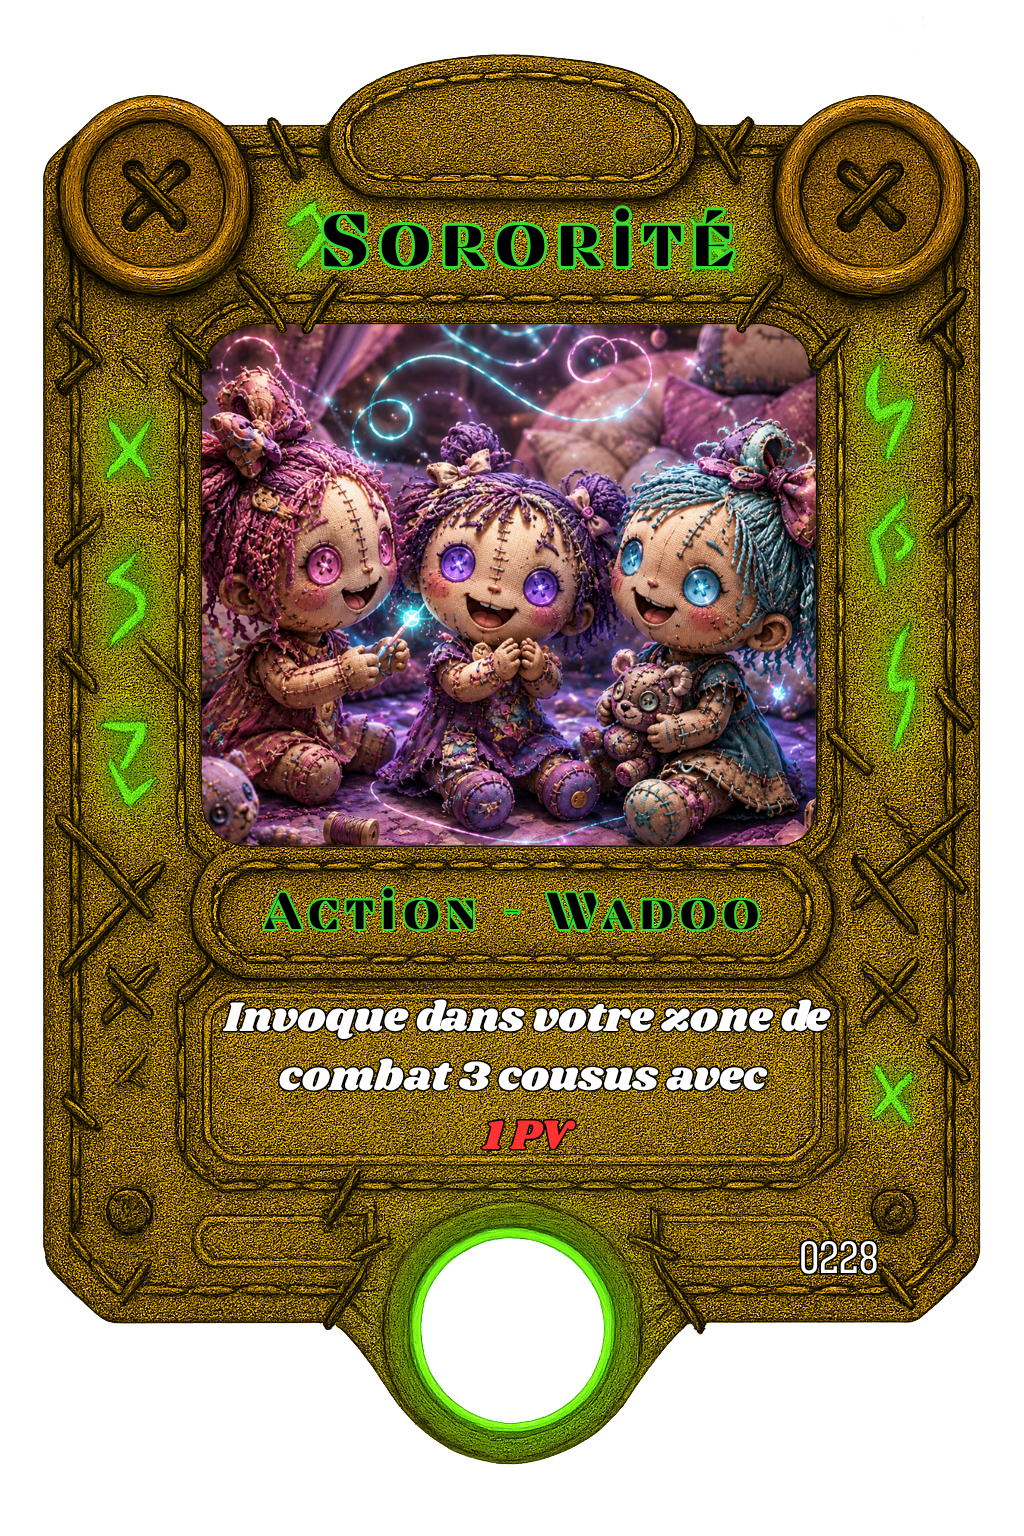
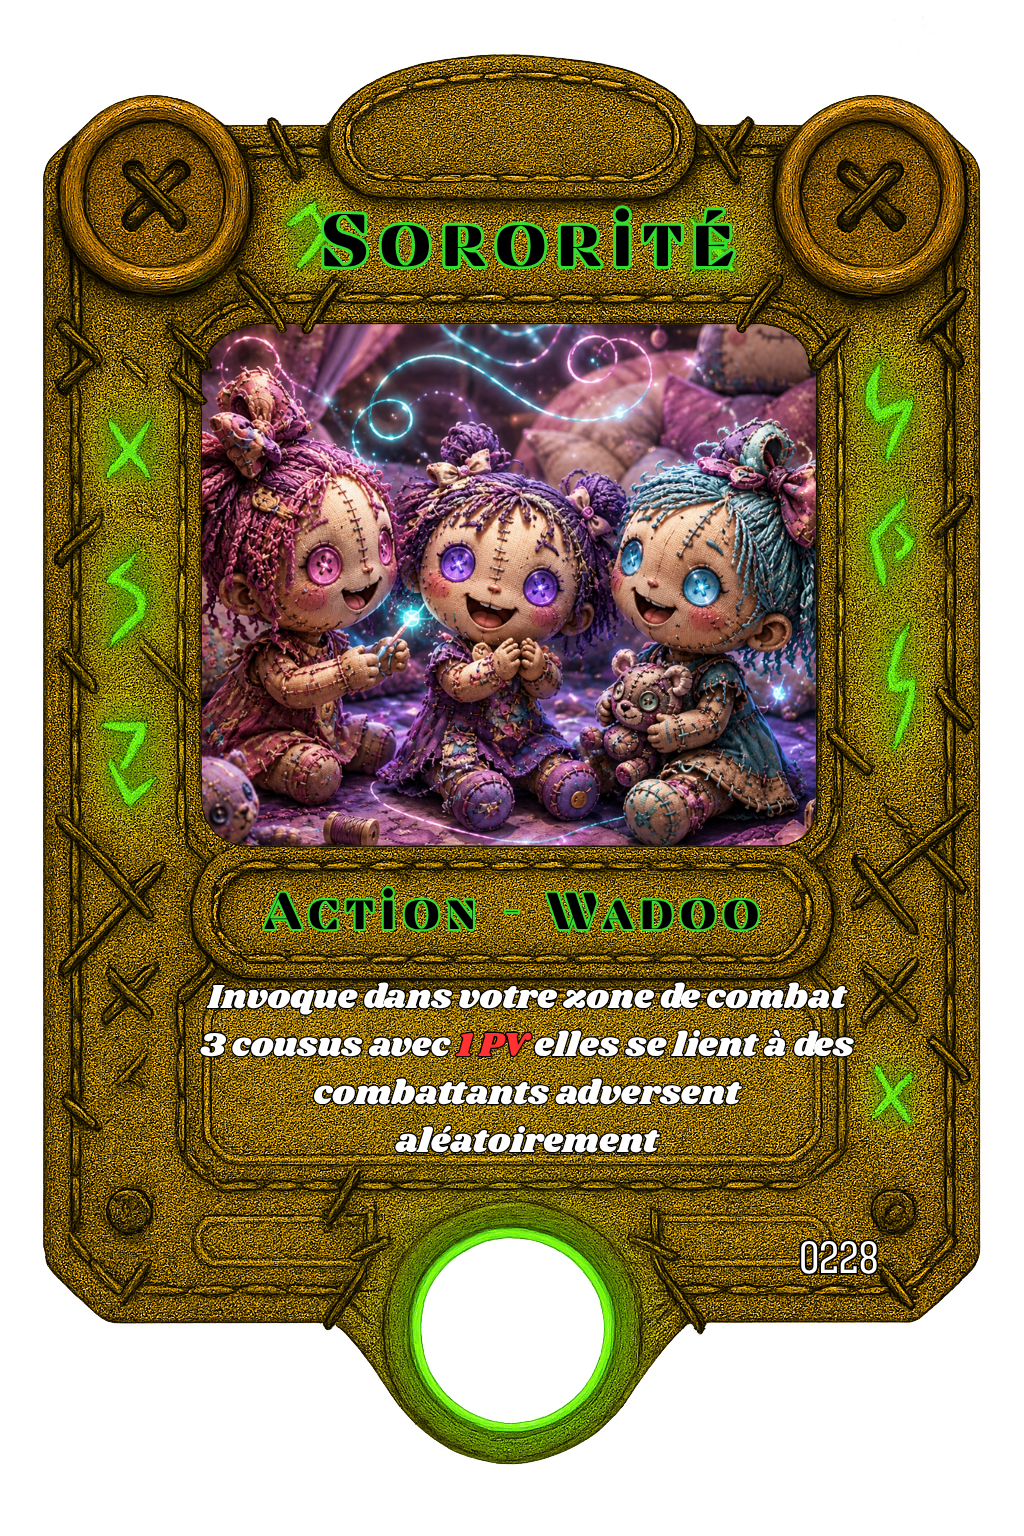
Sororite: epuisement+lien aleatoire, Mama Cecil: refonte ACTION (buff Poupees liees)

Changed region(s): [[0.1875, 0.625, 0.8438, 0.75]]

diff --git a/public/index.html b/public/index.html
@@ -7169,7 +7169,13 @@ function playActionC219(owner, actionCard){
 }
 
 // WADOO 4e lot : Sororité (C228) — invoque 3 "Cousus" (jetons T05/T06/T07,
-// 1 PV chacun) dans votre zone de combat.
+// 1 PV chacun, tag 'poupée') dans votre zone de combat. Comme tout
+// Personnage fraîchement posé (voir markAttacked), ils entrent ÉPUISÉS —
+// aucun des trois n'a RAPIDE. Chacun se lie ensuite aléatoirement (via le
+// mécanisme wadooLink partagé avec les autres Poupées Wadoo) à un
+// combattant adverse tiré au sort dans la zone de combat ennemie : si
+// celle-ci ne compte qu'un seul combattant, les 3 Cousus se lient
+// forcément tous à lui.
 function playActionSororite(owner, actionCard){
   if (!canPlayThisCardNow(owner, actionCard)) return;
   consumeAllowanceIfNeeded(owner, actionCard);
@@ -7189,7 +7195,26 @@ function playActionSororite(owner, actionCard){
     } else {
       line.push(...tokens);
     }
-    pushHistory('action', `${cardAnchor('C228')} invoque 3 Cousus dans la zone de combat !`);
+
+    // Épuisés dès l'entrée (aucun n'a RAPIDE).
+    tokens.forEach(t => markAttacked(owner, t));
+
+    // Lien aléatoire vers la zone de combat adverse, un tirage indépendant
+    // par Cousu (donc potentiellement tous liés à la même cible).
+    const opp = (owner === 'top') ? 'bottom' : 'top';
+    const oppLine = getLineByOwner(opp);
+    if (oppLine.length > 0) {
+      tokens.forEach(t => {
+        const target = oppLine[Math.floor(Math.random() * oppLine.length)];
+        t.wadooLink = target.id;
+      });
+      const distinctTargets = [...new Set(tokens.map(t => t.wadooLink))]
+        .map(id => oppLine.find(c => c.id === id))
+        .filter(Boolean);
+      pushHistory('action', `${cardAnchor('C228')} invoque 3 Cousus (épuisés) dans la zone de combat, liés aléatoirement à ${distinctTargets.map(c => cardAnchor(c.label)).join(', ')} !`);
+    } else {
+      pushHistory('action', `${cardAnchor('C228')} invoque 3 Cousus (épuisés) dans la zone de combat — aucun combattant adverse à lier.`);
+    }
     fullRender();
   });
 }
@@ -10359,9 +10384,8 @@ function openMiningPrompt(owner, card, fromEl){
         buttons.push(mineButton, { label: `Rituel de liaison (+${linkGain} Mithril)`, className: 'confirm' + (canLink ? '' : ' disabled'), disabled: !canLink, onClick: () => { if (canLink) startWadooLinkTargeting(owner, card); } });
     } else if (card.label === 'C206') {
         title = 'Mama Cecil';
-        const canHeal = getEffectiveHP(card) < getBaseHP('C206');
-        msg = 'Choisissez : <strong>Miner</strong> ou se <strong>Soigner</strong> de 3 PV.';
-        buttons.push(mineButton, { label: 'Capacité (Soin +3 PV)', className: 'confirm' + (canHeal ? '' : ' disabled'), disabled: !canHeal, onClick: () => { if (canHeal) useMamaCecileHeal(owner, card); } });
+        msg = 'Choisissez : <strong>Miner</strong> ou utiliser votre <strong>Action</strong> (+5PV pour Mama Cecil, +3PV et ESPRIT pour toutes vos Poupées liées).';
+        buttons.push(mineButton, { label: 'Action (+5PV, buff Poupées liées)', className: 'confirm', onClick: () => { useMamaCecilAbility(owner, card); } });
     } else if (card.label === 'C211') {
         title = 'Barbatruk';
         const dolls = getLineByOwner(owner).filter(c => hasTag(c, 'poupée'));
@@ -10966,15 +10990,35 @@ function useAphroditeAction(owner, card){
   fullRender();
 }
 
-function useMamaCecileHeal(owner, card){
+// WADOO (dernier lot) : Mama Cecil (C206) — ACTION : gagne +5PV (gain
+// permanent, pas un soin plafonné), et toutes ses Poupées liées (tag
+// 'poupée' + wadooLink actif) gagnent ESPRIT et +3PV.
+function useMamaCecilAbility(owner, card){
   if(!canPlayThisCardNow(owner, card)) return;
   if(hasAttacked(owner, card)) return;
 
   markAttacked(owner, card);
-  const before = card.hp;
-  card.hp = Math.min(getBaseHP('C206'), card.hp + 3);
+
+  card.hp = getEffectiveHP(card) + 5;
   playHPHitEffect(card);
-  pushHistory('info', `${cardAnchor('C206')} se soigne de ${card.hp - before} PV.`);
+  broadcastStatGainHit(card, 5, 'green');
+
+  const line = getLineByOwner(owner);
+  const linkedDolls = line.filter(c => hasTag(c, 'poupée') && c.wadooLink);
+
+  let buffMsg = '';
+  if (linkedDolls.length > 0) {
+    linkedDolls.forEach((d, i) => {
+      if (!Array.isArray(d.addedTags)) d.addedTags = [];
+      if (!hasTag(d, 'Esprit')) d.addedTags.push('Esprit');
+      d.hp = getEffectiveHP(d) + 3;
+      playHPHitEffect(d);
+      setTimeout(() => broadcastStatGainHit(d, 3, 'green'), 150 * (i + 1));
+    });
+    buffMsg = ` ${linkedDolls.map(d=>cardAnchor(d.label)).join(', ')} ${linkedDolls.length>1?'gagnent':'gagne'} <strong>ESPRIT</strong> et +3PV (Poupée${linkedDolls.length>1?'s':''} liée${linkedDolls.length>1?'s':''}) !`;
+  }
+
+  pushHistory('action', `${cardAnchor('C206')} gagne +5PV.${buffMsg}`);
   closeActionPrompt();
   fullRender();
 }
@@ -21782,7 +21826,7 @@ function aiCombatantActionIsUsable(card){
     case 'C202':
     case 'C203':
       return !card.wadooLink && getLineByOwner(opp).some(c => getType(c.label) === 'personnage'); // Rituel de liaison
-    case 'C206': return getEffectiveHP(card) < getBaseHP('C206'); // Mama Cecil : soin utile seulement si blessée
+    case 'C206': return true; // Mama Cecil : +5PV permanent, jamais gaspillé (plus un simple soin plafonné)
     case 'C211': return getLineByOwner(owner).some(c => hasTag(c, 'poupée')); // Barbatruk : a une Poupée à sacrifier
     case 'C218': {
       const enemyArts = (opp === 'top') ? topArts : botArts;
